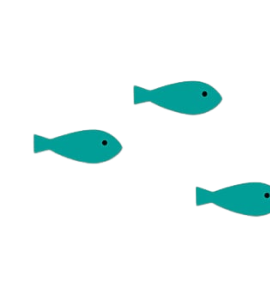
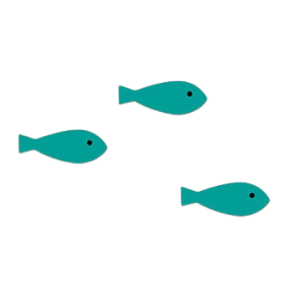
feat: 이미지 올리는 페이지 반응형구현

Changed region(s): [[0.5926, 0.5941, 1.0, 0.7426], [0.3852, 0.2673, 0.8296, 0.3861], [0.0593, 0.4158, 0.4741, 0.5644]]

diff --git a/frontend/src/page/insertImage/index.scss b/frontend/src/page/insertImage/index.scss
@@ -1,9 +1,12 @@
+@import '../../media.scss';
+
 .img-view {
   width: 100%;
   height: 100vh;
   display: flex;
   flex-direction: column;
   background: linear-gradient(180deg, #4da8bc 0%, #306c79 100%);
+  position: relative;
 }
 
 .insertImage-view {
@@ -16,19 +19,23 @@
 
 .insert_box {
   width: 35rem;
-  height: 25rem;
+  height: 22.5rem;
   display: flex;
   justify-content: center;
   align-items: center;
   background: #ffffff;
   border-radius: 20px;
   max-width: 70%;
+
+  @include tablet {
+    height: 25rem;
+  }
 }
 
 .insert_picture {
   max-width: 65%;
   width: 30rem;
-  height: 20rem;
+  height: 17.5rem;
 
   display: flex;
   justify-content: center;
@@ -46,6 +53,10 @@
   &:hover {
     opacity: 0.8;
   }
+
+  @include tablet {
+    height: 20rem;
+  }
 }
 
 .insert_picture-img {
@@ -62,4 +73,51 @@
   background-size: contain;
   width: 100%;
   height: 100%;
+}
+
+/////// 여기부터는 position으로 이미지를 레이아웃할떄 쓴 css
+.insert_fishImg {
+  position: absolute;
+  width: 8rem;
+  height: 14rem;
+  left: 5px;
+  top: 50%;
+
+  & img {
+    width: 100%;
+    height: 100%;
+  }
+
+  @include tablet {
+    left: calc(30px + 3%);
+  }
+}
+
+.insert_fishImg2 {
+  position: absolute;
+  width: 8rem;
+  height: 14rem;
+  right: 5px;
+  top: 30%;
+
+  & img {
+    width: 100%;
+    height: 100%;
+  }
+  @include tablet {
+    right: calc(30px + 3%);
+  }
+}
+
+.insert_seaweedsImg {
+  width: 14rem;
+  height: 14rem;
+
+  position: absolute;
+  right: 15%;
+  bottom: 0;
+  & img {
+    width: 100%;
+    height: 100%;
+  }
 }

diff --git a/frontend/src/page/insertImage/index.tsx b/frontend/src/page/insertImage/index.tsx
@@ -62,6 +62,15 @@ const InsertImage = () => {
           ></input>
         </div>
       </div>
+      <div className="insert_fishImg">
+        <img src={smallFish}></img>
+      </div>
+      <div className="insert_fishImg2">
+        <img src={smallFish}></img>
+      </div>
+      <div className="insert_seaweedsImg">
+        <img src={seaweeds}></img>
+      </div>
     </div>
   );
 };
